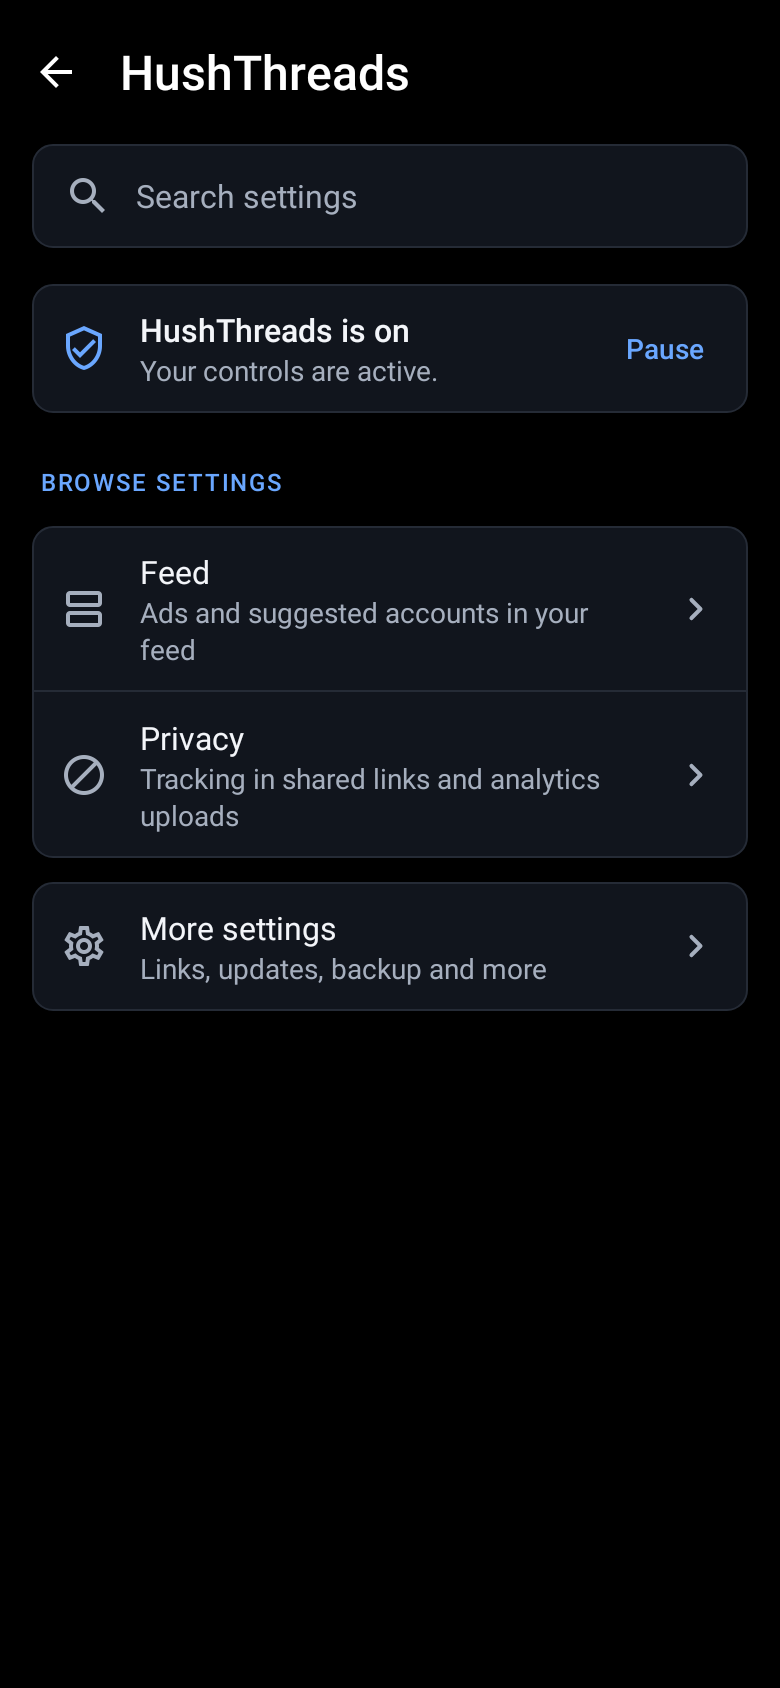
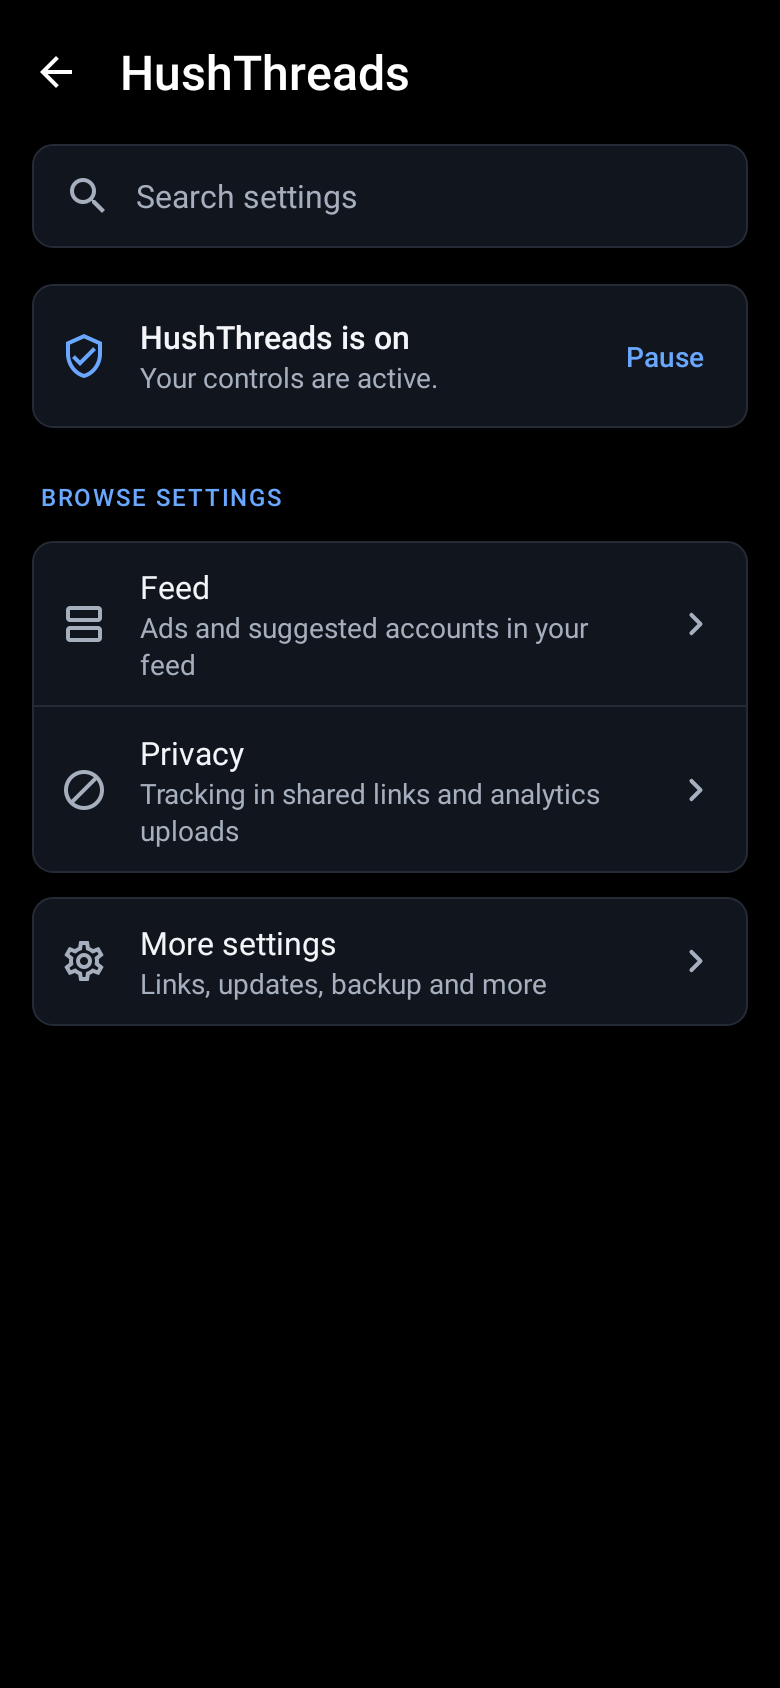
fix(settings): give the status card's Pause button its full 48dp
The button set a 48dp floor, but its widget_frame is match_parent, and
a match_parent child never adds to a wrap_content LinearLayout's height.
The row was as tall as its two lines of text and then squeezed the
frame, and the button with it, to that height: 39.5dp on a Galaxy S22,
found by a node audit of every settings page on Android 16.

The frame now wraps its content when it holds the button, so the row
grows to fit. The new test lays the overview and a paused Feed page
out at mdpi, where the text fits on single lines as it does on the
phone, and fails on the old layout at 41px against a 48px floor. The
overview screenshot is re-rendered with the taller card.

Changed region(s): [[0.0308, 0.1848, 0.9538, 0.4005], [0.0308, 0.4313, 0.9538, 0.6161]]

diff --git a/extensions/threads/src/test/java/app/morphe/extension/hushthreads/settings/SettingsNavigationTest.java b/extensions/threads/src/test/java/app/morphe/extension/hushthreads/settings/SettingsNavigationTest.java
@@ -387,6 +387,28 @@ public class SettingsNavigationTest {
         return null;
     }
 
+    /**
+     * The button's floor is 48 dp, but its frame took the row's height, which the text alone set:
+     * on a Galaxy S22 the overview's Pause laid out 39.5 dp tall. Laid out, it and both Resume
+     * buttons are 48 dp or more.
+     */
+    @Test @GraphicsMode(GraphicsMode.Mode.NATIVE)
+    @Config(qualifiers = "w780dp-h1688dp-mdpi")
+    public void theStatusButtonsAreLaidOutAtLeast48dpTall() {
+        layout(dialog.getView());
+        int floor = Math.round(48 * list().getResources().getDisplayMetrics().density);
+        assertTrue("Pause is " + statusAction().getHeight() + " px tall", statusAction().getHeight() >= floor);
+
+        BaseSettings.PAUSED.save(true);
+        PauseForTests.pause(HushThreadsPause.Reason.SWITCH);
+        recreate();
+        layout(dialog.getView());
+        assertTrue("Resume is " + statusAction().getHeight() + " px tall", statusAction().getHeight() >= floor);
+        page.navigation.navigate("Feed");
+        layout(dialog.getView());
+        assertTrue("Feed's Resume is " + pageAction().getHeight() + " px tall", pageAction().getHeight() >= floor);
+    }
+
     private android.widget.Button statusAction() {
         android.view.ViewGroup frame = list().getChildAt(0).findViewById(android.R.id.widget_frame);
         assertEquals(1, frame.getChildCount());

diff --git a/extensions/threads/src/main/java/app/morphe/extension/hushthreads/settings/SettingsNavigation.java b/extensions/threads/src/main/java/app/morphe/extension/hushthreads/settings/SettingsNavigation.java
@@ -414,6 +414,13 @@ final class SettingsNavigation extends BaseAdapter {
     private void bindAction(View row, boolean paused, boolean nextPaused) {
         ViewGroup frame = row.findViewById(android.R.id.widget_frame);
         frame.removeAllViews();
+        // A frame that matches the row's height never adds to it, so the row was as tall as its two
+        // lines of text and the button inside was held under its 48dp floor (39.5dp on a Galaxy S22).
+        ViewGroup.LayoutParams frameSize = frame.getLayoutParams();
+        if (frameSize != null && frameSize.height == ViewGroup.LayoutParams.MATCH_PARENT) {
+            frameSize.height = ViewGroup.LayoutParams.WRAP_CONTENT;
+            frame.setLayoutParams(frameSize);
+        }
         Button action = new Button(screen.getContext());
         action.setText(paused != nextPaused ? L10n.t("Undo") : nextPaused ? L10n.t("Resume") : L10n.t("Pause"));
         action.setAllCaps(false);

diff --git a/CHANGELOG.md b/CHANGELOG.md
@@ -6,6 +6,7 @@ Every HushThreads release, newest first.
 
 Source builds only. The published bundle remains at 0.0.3.
 
+* **Threads:** The Pause, Resume and Undo button beside HushThreads' status is at least 48 dp tall now. It took its height from the two lines of text next to it, which left it 39.5 dp tall on a Galaxy S22.
 * **Tooling:** The injected-register device check doesn't clear the phone's log anymore. It writes a marker of its own before dex2oat runs and counts only the verifier lines that follow it. If the log has rolled past that marker by the time it's read, the check stops with an error instead of guessing.
 * **Tooling:** The settings file test resets the release check it turns on, so the release check tests start from a phone that never checked in any suite order.
 
